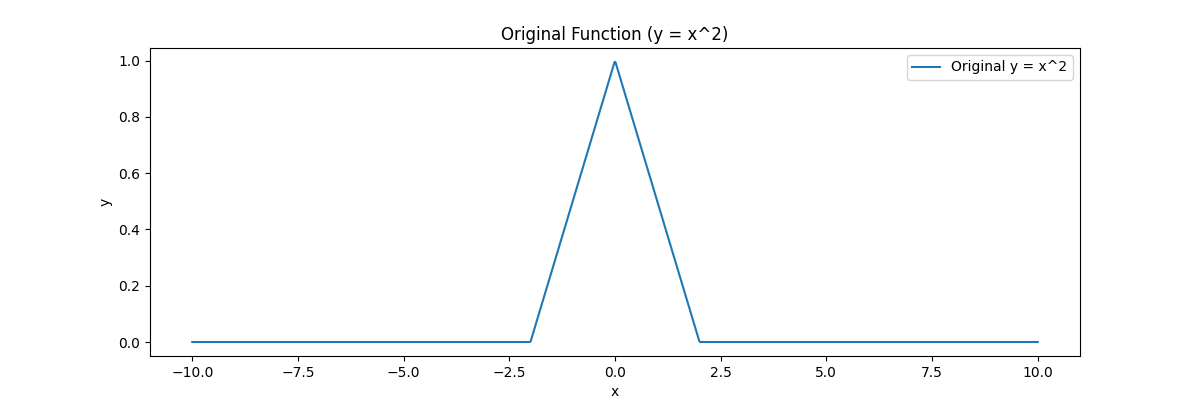
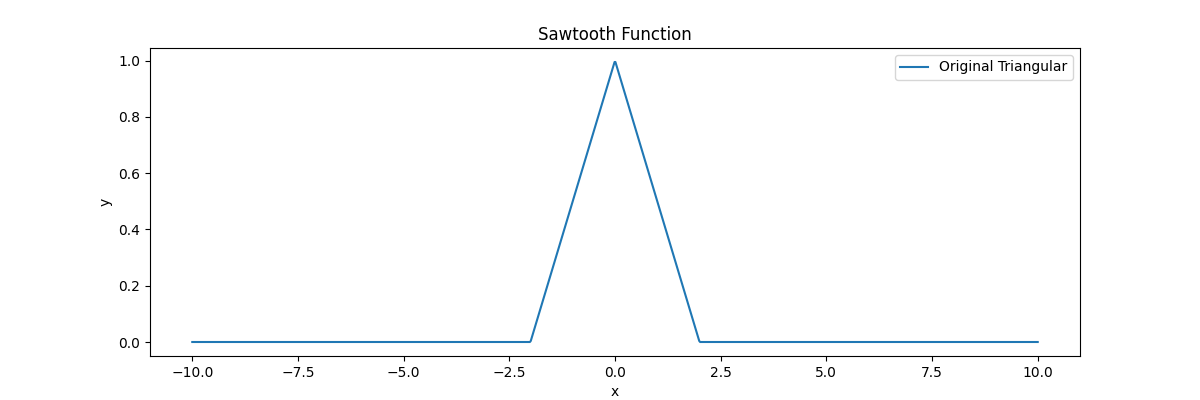
plotting fix

Changed region(s): [[0.4008, 0.06, 0.6167, 0.12], [0.74, 0.15, 0.8942, 0.18]]

diff --git a/Offline-3/FT_basic.py b/Offline-3/FT_basic.py
@@ -15,20 +15,24 @@ y_values = np.where(np.abs(x_values) <= 2, x_values**2, 0) ## parabolic
 # y_values = np.where(np.abs(x_values)<=2,0.5*np.abs(4*(2/8) * np.abs(((x_values+2)-(8/4))%(8/2))-2),0) ## Triangular
 # y_values = np.where(np.abs(x_values)<=2,4* (x_values/(4)-np.floor(0.5+x_values/(4))),0) ## Sawtooth
 
+# functions
+square_values = np.where(np.abs(x_values) <= 2, 1, 0)
+triangular_values = np.where(np.abs(x_values)<=2,0.5*np.abs(4*(2/8) * np.abs(((x_values+2)-(8/4))%(8/2))-2),0)
+sawtooth_values = np.where(np.abs(x_values)<=2,4* (x_values/(4)-np.floor(0.5+x_values/(4))),0) 
 
-# Plot the original function
-plt.figure(figsize=(12, 4))
-plt.plot(x_values, y_values, label="Original y = x^2")
-plt.title("Original Function (y = x^2)")
-plt.xlabel("x")
-plt.ylabel("y")
-# plt.xlim(-10, 10)
-# plt.ylim(-10, 10)
-plt.legend()
-plt.show()
+# # Plot the original function
+# plt.figure(figsize=(12, 4))
+# plt.plot(x_values, y_values, label="Original y = x^2")
+# plt.title("Original Function (y = x^2)")
+# plt.xlabel("x")
+# plt.ylabel("y")
+# # plt.xlim(-10, 10)
+# # plt.ylim(-10, 10)
+# plt.legend()
+# plt.show()
 
-# plt.savefig(os.path.join(save_folder, "original_function.png"))  # Save as PNG
-# plt.close()
+# # plt.savefig(os.path.join(save_folder, "original_function.png"))  # Save as PNG
+# # plt.close()
 
 
 # Define the sampled times and frequencies
@@ -53,20 +57,6 @@ def fourier_transform(signal, frequencies, sampled_times):
     return ft_result_real, ft_result_imag
 
 
-# Apply FT to the sampled data
-ft_data = fourier_transform(y_values, frequencies, sampled_times)
-#  plot the FT data
-plt.figure(figsize=(12, 6))
-plt.plot(frequencies, np.sqrt(ft_data[0]**2 + ft_data[1]**2))
-plt.title("Frequency Spectrum of y = x^2")
-plt.xlabel("Frequency (Hz)")
-plt.ylabel("Magnitude")
-plt.show()
-
-# plt.savefig(os.path.join(save_folder, "frequency_spectrum_1.png"))  # Save as PNG
-# plt.close()
-
-
 # Inverse Fourier Transform 
 def inverse_fourier_transform(ft_signal, frequencies, sampled_times):
     n = len(sampled_times)
@@ -83,19 +73,78 @@ def inverse_fourier_transform(ft_signal, frequencies, sampled_times):
     
     return reconstructed_signal
 
+frequency_ranges = [1, 2, 5]
+functions = [
+    ("Parabolic Function", y_values, "black"),
+    ("Triangular Function", triangular_values, "blue"),
+    ("Sawtooth Function", sawtooth_values, "green"),
+    ("Rectangular Function", square_values, "red")
+]
 
-# Reconstruct the signal from the FT data
-reconstructed_y_values = inverse_fourier_transform(ft_data, frequencies, sampled_times)
-# Plot the original and reconstructed functions for comparison
-plt.figure(figsize=(12, 4))
-plt.plot(x_values, y_values, label="Original y = x^2", color="blue")
-plt.plot(sampled_times, reconstructed_y_values, label="Reconstructed y = x^2", color="red", linestyle="--")
-plt.title("Original vs Reconstructed Function (y = x^2)")
-plt.xlabel("x")
-# plt.xlim(-10, 10)
-plt.ylabel("y")
-plt.legend()
-plt.show()
+for func_name, func_values, color in functions:
+    # # Plot the original function
+    plt.figure(figsize=(12, 4))
+    plt.plot(x_values, func_values, label=f"Original {func_name}", color=color)
+    plt.title(f"Original {func_name}")
+    plt.xlabel("x")
+    plt.ylabel("y")
+    # plt.xlim(-10, 10)
+    # plt.ylim(-10, 10)
+    plt.legend()
+    plt.show()
+    for freq_limit in frequency_ranges:
+        frequencies = np.linspace(-freq_limit, freq_limit, 1000)
+        sampled_times = x_values
+        
+        # Apply Fourier Transform to the function
+        ft_data = fourier_transform(func_values, frequencies, sampled_times)
+        
+        # Plot the frequency spectrum
+        plt.figure(figsize=(12, 6))
+        plt.plot(frequencies, np.sqrt(ft_data[0]**2 + ft_data[1]**2), color=color)
+        plt.title(f"Frequency Spectrum of {func_name} (Frequency range -{freq_limit} to {freq_limit})")
+        plt.xlabel("Frequency (Hz)")
+        plt.ylabel("Magnitude")
+        plt.show()
+        
+        # Reconstruct the function from FT data using Inverse Fourier Transform
+        reconstructed_func_values = inverse_fourier_transform(ft_data, frequencies, sampled_times)
+        
+        # Plot the original and reconstructed functions for comparison
+        plt.figure(figsize=(12, 4))
+        plt.plot(x_values, func_values, label=f"Original {func_name}", color=color)
+        plt.plot(sampled_times, reconstructed_func_values, label=f"Reconstructed {func_name} (Frequency range -{freq_limit} to {freq_limit})", color="orange", linestyle="--")
+        plt.title(f"Original vs Reconstructed {func_name} (Frequency range -{freq_limit} to {freq_limit})")
+        plt.xlabel("x")
+        plt.ylabel("y")
+        plt.legend()
+        plt.show()
 
-# plt.savefig(os.path.join(save_folder, "original_vs_reconstructed_1.png"))  # Save as PNG
-# plt.close()
+# # Apply FT to the sampled data
+# ft_data = fourier_transform(y_values, frequencies, sampled_times)
+# #  plot the FT data
+# plt.figure(figsize=(12, 6))
+# plt.plot(frequencies, np.sqrt(ft_data[0]**2 + ft_data[1]**2))
+# plt.title("Frequency Spectrum of y = x^2")
+# plt.xlabel("Frequency (Hz)")
+# plt.ylabel("Magnitude")
+# plt.show()
+
+# # plt.savefig(os.path.join(save_folder, "frequency_spectrum_1.png"))  # Save as PNG
+# # plt.close()
+
+# # Reconstruct the signal from the FT data
+# reconstructed_y_values = inverse_fourier_transform(ft_data, frequencies, sampled_times)
+# # Plot the original and reconstructed functions for comparison
+# plt.figure(figsize=(12, 4))
+# plt.plot(x_values, y_values, label="Original y = x^2", color="blue")
+# plt.plot(sampled_times, reconstructed_y_values, label="Reconstructed y = x^2", color="red", linestyle="--")
+# plt.title("Original vs Reconstructed Function (y = x^2)")
+# plt.xlabel("x")
+# # plt.xlim(-10, 10)
+# plt.ylabel("y")
+# plt.legend()
+# plt.show()
+
+# # plt.savefig(os.path.join(save_folder, "original_vs_reconstructed_1.png"))  # Save as PNG
+# # plt.close()

diff --git a/Offline-3/audio_processing.py b/Offline-3/audio_processing.py
@@ -17,7 +17,7 @@ plt.plot(time, data)
 plt.title("Original Audio Signal (Time Domain)")
 plt.xlabel("Time (s)")
 plt.ylabel("Amplitude")
-# plt.show()
+plt.show()
 
 # Set parameters for interval sampling and FT
 interval_step = 1  # Adjust for sampling every 'interval_step' data points  
@@ -59,7 +59,7 @@ plt.plot(frequencies, np.sqrt(ft_data[0]**2 + ft_data[1]**2))
 plt.title("Frequency Spectrum of the Audio Signal (Custom FT with Trapezoidal Integration)")
 plt.xlabel("Frequency (Hz)")
 plt.ylabel("Magnitude")
-# plt.show()
+plt.show()
 
 # Step 3: Filter out unwanted noise frequencies
 filtered_ft_data= np.zeros((2, num_freqs))
@@ -78,7 +78,7 @@ plt.plot(frequencies, np.sqrt(filtered_ft_data[0]**2 + filtered_ft_data[1]**2))
 plt.title("Filtered Frequency Spectrum (Unwanted Frequencies Removed)")
 plt.xlabel("Frequency (Hz)")
 plt.ylabel("Magnitude")
-# plt.show()
+plt.show()
 
 # Step 4: Apply Inverse Fourier Transform using trapezoidal integration
 def inverse_fourier_transform(ft_signal, frequencies, sampled_times):
@@ -106,7 +106,7 @@ plt.plot(sampled_times, filtered_data)
 plt.title("Reconstructed (Denoised) Audio Signal (Time Domain)")
 plt.xlabel("Time (s)")
 plt.ylabel("Amplitude")
-# plt.show()
+plt.show()
 
 # Step 5: Normalize and save the denoised audio
 filtered_data = np.int16(filtered_data / np.max(np.abs(filtered_data)) * 32767)  # Convert to int16 format for WAV

diff --git a/Offline-2/2105032.py b/Offline-2/2105032.py
@@ -93,7 +93,7 @@ class FourierSeries:
         a0 = self.calculate_a0()
         
         # Initialize the series with the a0 term
-        series = a0 * np.ones_like(x)
+        series = (a0/2) * np.ones_like(x)
         
         # Compute each harmonic up to the specified number of terms
         for n in range(1, self.terms + 1):
@@ -169,8 +169,8 @@ def target_function(x, function_type="square"):
         # Triangle wave: periodic line with slope +1 and -1 alternately
         # y = -1* (2 * np.abs((x) % (2*np.pi) - np.pi) - np.pi) ## single triangle (lower)
         # y = (2 * np.abs((x) % (2*np.pi) - np.pi) - np.pi) ## single triangle (upper)
-        # y = np.abs(1 * np.abs((x - np.pi/2) % (2*np.pi)-np.pi)-np.pi/2) ## double upper triangle (P=2pi, A=pi/2, with abs value)
-        y = (1 * np.abs((x- np.pi/2) % (2*np.pi)-np.pi)-np.pi/2) ## normal triangle (P=2pi, A=pi/2)
+        y = np.abs(1 * np.abs((x - np.pi/2) % (2*np.pi)-np.pi)-np.pi/2) ## double upper triangle (P=2pi, A=pi/2, with abs value)
+        # y = (1 * np.abs((x- np.pi/2) % (2*np.pi)-np.pi)-np.pi/2) ## normal triangle (P=2pi, A=pi/2)
         return y
         pass  # Implement this function
     
